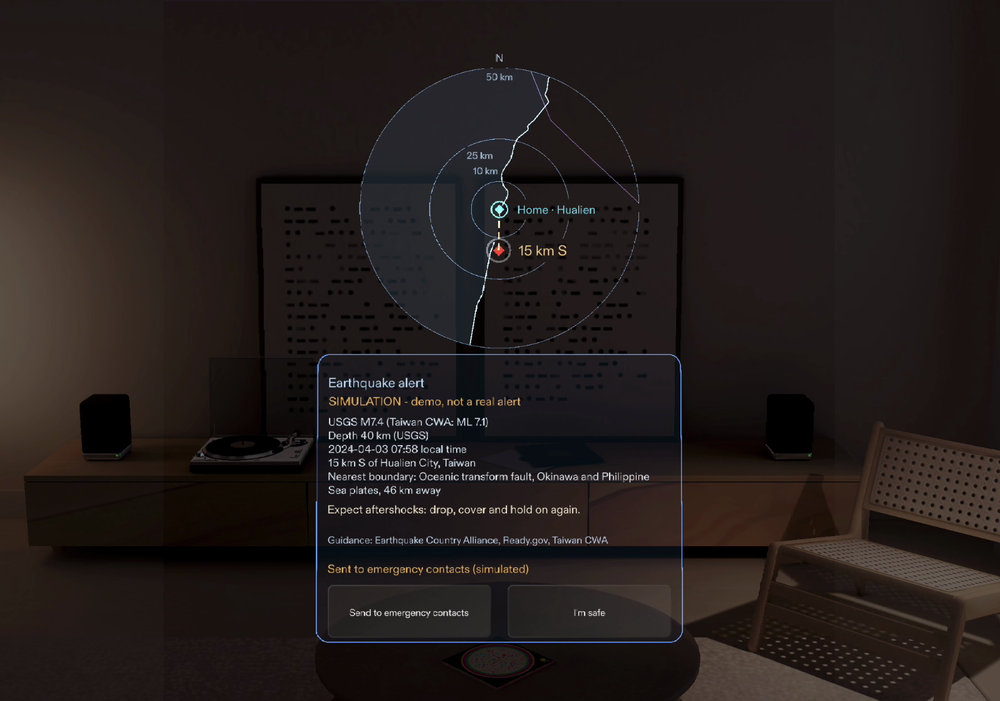
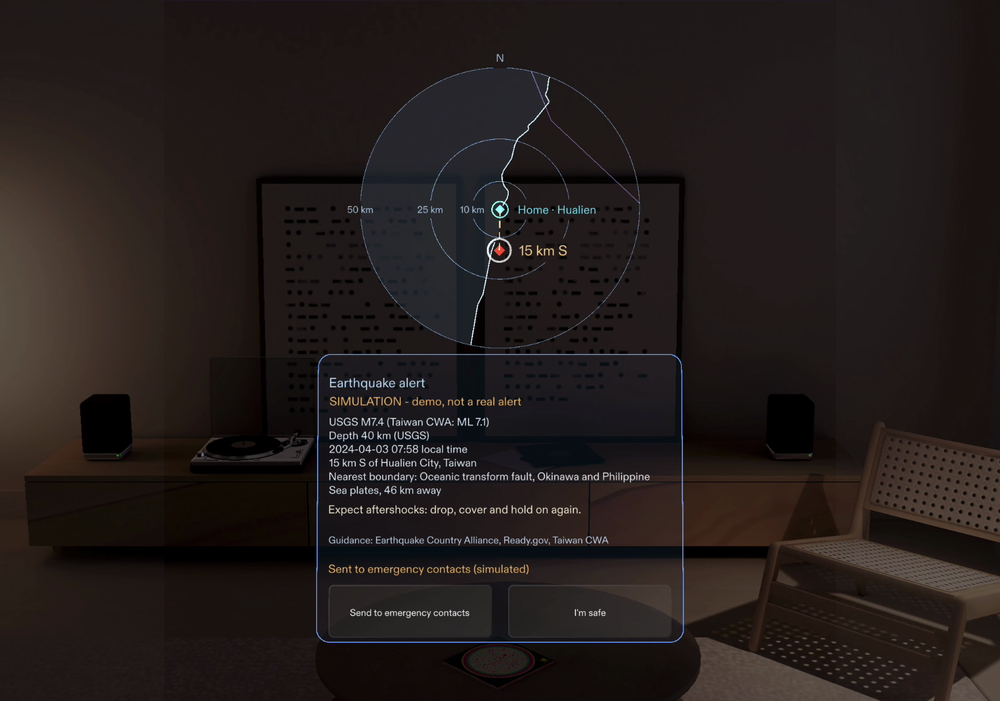
Docs for pass 13; stills from the final take
- docs/clad-build: pass 13 (one denied Read of the Lens Studio log outside
  the project; 22 LEAF runs, all passed). In all: 17 passes, 1711 turns,
  8 h 10 min by Claude Code's own count.
- README: the pass list adds the final cut's review (ring labels on their
  rings, the cover-spot hint clear of the globe and the dashboard).
- docs/images: three stills from take A14, recorded after pass 13.

diff --git a/docs/clad-build/pass13.md b/docs/clad-build/pass13.md
@@ -1,0 +1,98 @@
+# CLAD pass 13: The final cut's review: ring labels on their rings, the cover-spot hint clear of the globe
+
+Headless Claude Code with Snap's ls-clad plugin, driving Lens Studio 5.24.1 through its MCP server. 106 turns and 33 minutes, by Claude Code's own count.
+
+## Prompt
+
+```text
+Read the design brief at lens/devpost/design-brief.md (inside this folder as devpost/design-brief.md), especially its newest section, "Notes from the review of the final cut (2026-10-23)", and make those two changes to the Lens. Change nothing else. Work in the foreground: run every test yourself, start no background agents, and don't end your turn until you have the LEAF results table.
+
+1. Ring labels on their rings (Scripts/LocalMapView.ts). Today each ring label walks around its own ring to a free spot (RING_LABEL_ANGLES, inside or outside the ring), so "25 km" and "10 km" ended up next to each other between their rings.
+   - Put each ring's label centred on its own ring line, with a gap cut in that ring under the label (the rings are polylines and already carry such gaps).
+   - Put all the ring labels on one ray from home, at the same direction: the first direction from a list of candidates where every ring label on that ray is clear of the coastline, the plate lines, the markers, the home-epicentre line, the other labels and "N". If no direction clears them all, use the one that clears the most, and keep the existing rules for the rest (gaps under labels, no two labels overlapping).
+   - Keep everything else on the map as it is.
+2. The cover-spot hint stays clear (Scripts/EmergencyOverlay.ts; the hint follows the line of sight in cover mode, HINT_AHEAD_CM / HINT_RAISE_CM). While the view still rests on the globe after "Set cover spot", and then sweeps down past the dashboard, the hint is drawn over the globe and over the dashboard's text.
+   - In cover mode, at every frame, the hint must stay readable and in view, and, seen from the camera, its text must never overlap the globe's silhouette or the dashboard's plate.
+   - For example: while its line-of-sight place would overlap either of them, hold it just above the globe (or wherever is nearest and clear), and follow the line of sight again, as now, once that place is clear. Move it smoothly, without popping. The choice is yours; explain it.
+3. Tests: keep every existing check.
+   - In the alert scenario (or wherever the map is up), also check that each ring label's box is centred on its own ring, that all ring labels lie on one ray from home, and that no drawn line crosses a label.
+   - In the cover-spot scenario, add a check that would have caught the hint overlap: for example, compute the hint's place for the default camera and for a few camera directions sweeping down from the globe to the floor, and require that the hint's box, seen from that camera, overlaps neither the globe's silhouette nor the dashboard's plate. Say what it measures.
+   - Run all six scenarios (map_detail, quake_details, alert, cover_spot, emergency_contacts, home_marker) one at a time. After a failure, read the log with RunAndCollectLogsTool mode "tail" before changing anything. Then run them all again in a row. Finally, run each of the six once with parameters {"__leaf__log_level": "DEBUG"}, strictly one call at a time with no overlapping calls, and report any "setTarget: probe" lines.
+   - If a run_leaf_scenario call times out at the MCP transport, read LEAF's own PASSED / FAILED line in the log before deciding anything, and don't start another run until that one has finished. If Lens Studio quits, stop and report; don't try to reopen it.
+   - Leave demo_alert and demo_globe alone (video drivers). Don't run them, and keep every name they rely on.
+4. Screenshots from the default camera:
+   - pitched down about 10 degrees, in the alert's "during" stage: the three ring labels on their rings along one ray, the coastline, the dashes and the other labels as before;
+   - right after "Set cover spot", with the camera at the default pose and then turned down toward the floor in a few steps (MovePreviewCamera): the hint readable and clear of the globe and the dashboard at each step.
+   If you slow anything down to capture it, restore it and recompile before any LEAF run.
+
+Before saving the scene, delete any "AiPreviewAgent Handler" object; keep LeafIndex. Avoid QueryRuntimeSceneTool and PreviewInteractTool. Reset the preview camera to its default when done. Keep the device on SPECS 27. Don't edit Core/, Data/ or anything outside lens/. No shell commands, not even read-only ones: use the file tools to list and read files.
+
+Report:
+- where the ring labels went (the ray's direction) and what the map screenshot showed;
+- how the hint now keeps clear, and what the cover-spot screenshots showed at each step;
+- the new checks and what each measures;
+- the LEAF table, and the DEBUG probe results;
+- every file you changed.
+```
+
+## CLAD skills loaded in this pass
+
+lens-studio-router, specs-leaf-run-in-preview
+
+## LEAF runs in this pass (in order)
+
+map_detail: succeeded/succeeded/succeeded/succeeded, quake_details: succeeded/succeeded/succeeded/succeeded, alert: succeeded/succeeded/succeeded/succeeded, cover_spot: succeeded/succeeded/succeeded/succeeded, emergency_contacts: succeeded/succeeded/succeeded, home_marker: succeeded/succeeded/succeeded
+
+## Note
+
+One Read of the Lens Studio log file, outside the project folder, was denied by the headless permissions; the agent read the log through the MCP instead. It re-ran four of the DEBUG runs to read their full logs, so this pass has 22 LEAF runs, all passed.
+
+## The agent's final report
+
+Done. Both design-brief fixes are in, all six LEAF scenarios pass three times over, and the screenshots confirm both behaviours. Details:
+
+## 1. Ring labels (where they went, and the map screenshot)
+
+Each ring label is now centred on its own ring line, and all three sit on **one ray due west of home (180° from east)** — spread 0.00°, per the scenario's own print. The placement tries a fixed candidate list of directions (east and west first, as the open sides of a coastal map; up and down last since "N" owns the top and the demo's line runs south) and takes the first direction where **every** label clears the coastline, plate lines, other rings, markers, the home-epicentre line, "N" and its siblings; east was blocked (coast/plate lines run NE of home), west — over the quiet land tint — cleared all three. If no direction cleared everything, the one clearing the most would win, with the existing gap-cutting rules covering the rest. The shared gap pass cuts each ring under its own label.
+
+The screenshot at the default camera (pitched down 10°), "during" stage, shows: "50 km", "25 km", "10 km" in a row on their rings to the left of home, a visible gap in each ring under its label, "N" at top, "Home · Hualien", the warm dashed line south to "15 km S", the coastline with its margin around the dashes, the land tint, and the plate line — nothing else moved.
+
+## 2. The cover-spot hint (how it keeps clear, and the sweep)
+
+The hint still follows the line of sight at 70 cm, but its height in the view is now planned every frame (`coverHintPlanFor`, a pure function): project the globe's silhouette and the dashboard's backplate into the hint's view plane, grow them by the hint's text box plus a 2 cm margin, and merge them into blocked vertical bands. If the default spot (+9 cm) is clear, use it; otherwise take the nearer clear band edge that is still in view — above the globe while the view rests on it, below the dashboard while the view sweeps across it. The offset glides with an exponential ease and is clamped out of the bands, so lag can never leave text over an obstacle; when the clear side flips (above-globe → below-dashboard mid-sweep), a glide would cross the obstacles, so the hint instead **cross-fades** — out in place, across while invisible, in at the new spot (or jumps silently if its box is already fully off-view). Entering cover mode seeds the hint directly at the clear spot, so there's no initial slide.
+
+Screenshots: **default pose** — hint above the globe, clear of silhouette and panel; **−20°** — hint below the dashboard's plate; **−30°** — hint just under the plate's bottom edge; **−45°** — both obstacles out of view, hint back at its default line-of-sight spot over the floor. Readable and clear at every step. Nothing was slowed down for the captures, so no restore/recompile was needed.
+
+## 3. New checks and what each measures
+
+In **`alert`** (AlertScenario.ts, on `LocalMapView.lastBuildDebug`, the final drawn geometry):
+- Each ring label's box centre lies on its own ring: distance from home equals the matching ring's radius at the map's scale within 0.05 cm, matched by label text.
+- All ring labels lie on one ray: their centres' angles from home agree within 0.5°.
+- The existing "no drawn line crosses a label's box" check now includes the **dashes** too (it already covered coastline, plates, rings), which also proves the gap cut under each ring label.
+
+In **`cover_spot`** (SafeSpotArrowScenario.ts, while cover mode is up):
+- *Posed-hint check*: the hint object's wrapped-glyph box is sampled as a 5×3 grid of eye-rays; no ray may fall inside the globe's silhouette cone (within asin(R/d) of the eye-to-centre direction) or hit the dashboard's backplate rectangle (ray–plane intersection inside the plate, measured from the plate's own RoundedRectangle, independent of the Lens's accessor). This is the frame the old hint failed.
+- *Sweep check*: `coverHintPlanFor` is evaluated at pitches −10, −20, −30, −45, −60; each steady-state spot must stay in view (|offset| ≤ 22 cm at 70 cm) and its box must pass the same two ray tests. The old fixed +9 cm raise fails this at −10 (over the globe) and −20 (over the dashboard's text).
+
+## 4. LEAF results and DEBUG probe report
+
+| Scenario | Pass 1 | Pass 2 (in a row) | DEBUG pass |
+| --- | --- | --- | --- |
+| map_detail | ✅ PASSED | ✅ PASSED | ✅ PASSED |
+| quake_details | ✅ PASSED | ✅ PASSED | ✅ PASSED |
+| alert | ✅ PASSED | ✅ PASSED | ✅ PASSED |
+| cover_spot | ✅ PASSED | ✅ PASSED | ✅ PASSED |
+| emergency_contacts | ✅ PASSED | ✅ PASSED | ✅ PASSED |
+| home_marker | ✅ PASSED | ✅ PASSED | ✅ PASSED |
+
+Every result above is the scenario manager's own `PASSED: <id>` line; no run timed out, no run overlapped another. `demo_alert` and `demo_globe` were not run and every name they rely on is unchanged. **DEBUG probe report: zero "setTarget: probe" lines — in fact zero "setTarget" lines of any kind — across all six DEBUG runs.** The only probe output is the Lens's own `probe hit at (-107.7, -28.0, -502.5) normal (-0.07, 0.00, 1.00)` in cover_spot (the world-query surface probe working). One honesty note: the first DEBUG pass ran all six, but its earlier logs scrolled past the readable tail window, so I ran map_detail, quake_details, alert and cover_spot once more at DEBUG, tailing right after each, to read their full logs (all passed again).
+
+## 5. Files changed (all inside `lens/Assets/QuakeGlobe/Scripts/`)
+
+- `LocalMapView.ts` — ring labels on one ray, centred on their rings (`RING_LABEL_RAY_DEGREES` replaces `RING_LABEL_ANGLES`; "N" placed first).
+- `EmergencyOverlay.ts` — `coverHintPlanFor` planner, glide/clamp/cross-fade posing, seeding in `enterCoverMode`, `HintObstacleRect` on `GlobeContext`.
+- `QuakeGlobeLens.ts` — `dashboardPlateWorld` accessor (stores the panel plate's bottom edge).
+- `Tests/AlertScenario.ts` — ring-label ray/centre checks; crossing check now includes dashes.
+- `Tests/SafeSpotArrowScenario.ts` — posed-hint and pitch-sweep overlap checks.
+
+Housekeeping: no "AiPreviewAgent Handler" object existed anywhere in the scene (nothing deleted); `LeafIndex` kept; project saved; preview camera back at the default pose (origin, pitched down 10°); device untouched on SPECS 27 (live USGS loads fine — "375 quakes, M2.5+, past 7 days"). Two caveats: `npm test` and the typecheck script couldn't be run because the task forbids shell commands — `RecompileTypeScriptTool` passed and no Core/ or Data/ file was touched, so the unit-tested core is unchanged; and Lens Studio reports you're signed out, which didn't affect any of this work but will matter for publishing.

diff --git a/docs/clad-build/README.md b/docs/clad-build/README.md
@@ -21,9 +21,10 @@ Each pass is one headless Claude Code session with Snap's ls-clad plugin, workin
 | [11](pass11.md) | The two demo-video drivers, written fresh from a shot list | 47 | 7 | specs-leaf-write-scenarios, specs-leaf-run-in-preview |
 | [12](pass12.md) | The narrated cut's review: no text hidden during the zoom, labels clear of lines, the dashed line readable | 120 | 30 | lens-studio-router, lens-studio-field-notes, editor-api, specs-leaf-run-in-preview, preview-inspection, lens-log-analysis |
 | [12b](pass12b.md) | Finish pass 12 after a usage limit | 86 | 12 | lens-studio-router, specs-leaf-run-in-preview, lens-log-analysis, preview-inspection, editor-api |
+| [13](pass13.md) | The final cut's review: ring labels on their rings, the cover-spot hint clear of the globe | 106 | 33 | lens-studio-router, specs-leaf-run-in-preview |
 
-In all: 1605 turns, 7 h 37 min. The total is summed from each pass's exact duration and then rounded to the minute, like each pass; it is not a sum of the rounded minutes above.
+In all: 1711 turns, 8 h 10 min. The total is summed from each pass's exact duration and then rounded to the minute, like each pass; it is not a sum of the rounded minutes above.
 
-Not in that total: the stopped first try at pass 9b, 29 turns and 4 minutes, with 10 Lens Studio MCP calls, 7 file reads and 0 edits (see its note). The video's build replay shows the other 16 passes and counts only their calls.
+Not in that total: the stopped first try at pass 9b, 29 turns and 4 minutes, with 10 Lens Studio MCP calls, 7 file reads and 0 edits (see its note). The video's build replay shows the other 17 passes and counts only their calls.
 
 Turns and minutes are Claude Code's own count. By the logs' clock, pass 3 took about 6 hours: it ran overnight, with long pauses between steps that Claude Code's count leaves out.

diff --git a/README.md b/README.md
@@ -94,7 +94,10 @@ Made for the Learn AR with SPECS hackathon:
     from a shot list;
   - the review of the narrated cut: the zoom never hides the alert card's or the dashboard's
     text, map labels keep clear of lines, and the coastline gives way to the dashed line
-    (finished after a usage limit).
+    (finished after a usage limit);
+  - the review of the final cut: each ring label sits on its own ring, all along one direction
+    from home, and the cover-spot hint keeps clear of the globe and the dashboard while the view
+    sweeps down to the floor.
 
   Each pass's prompt and report are in [docs/clad-build/](docs/clad-build/).
 - **Tested** with LEAF: one scenario for each done criterion, plus the home marker. They run in the
